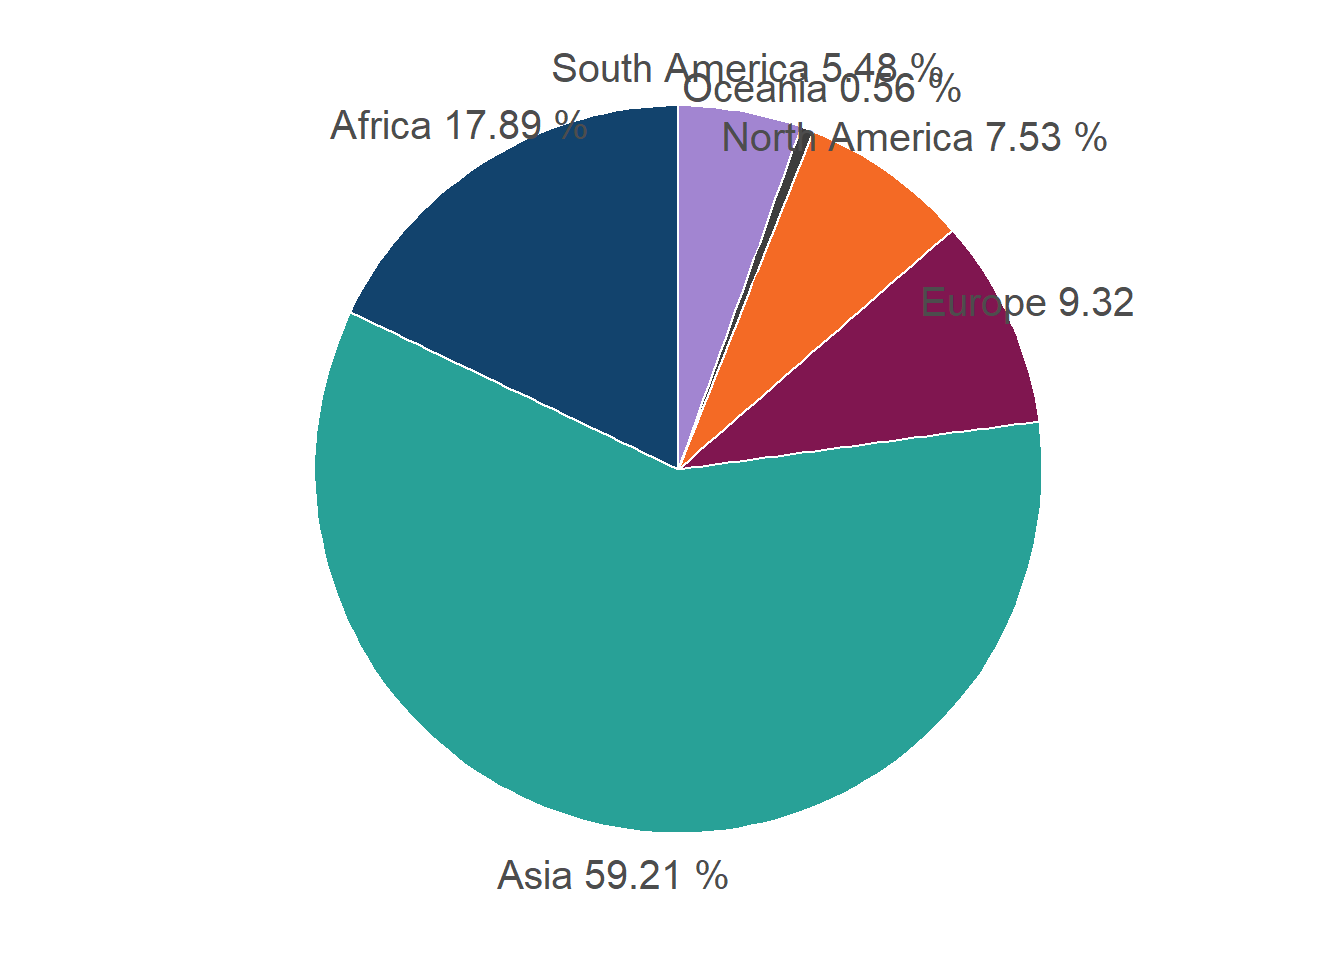
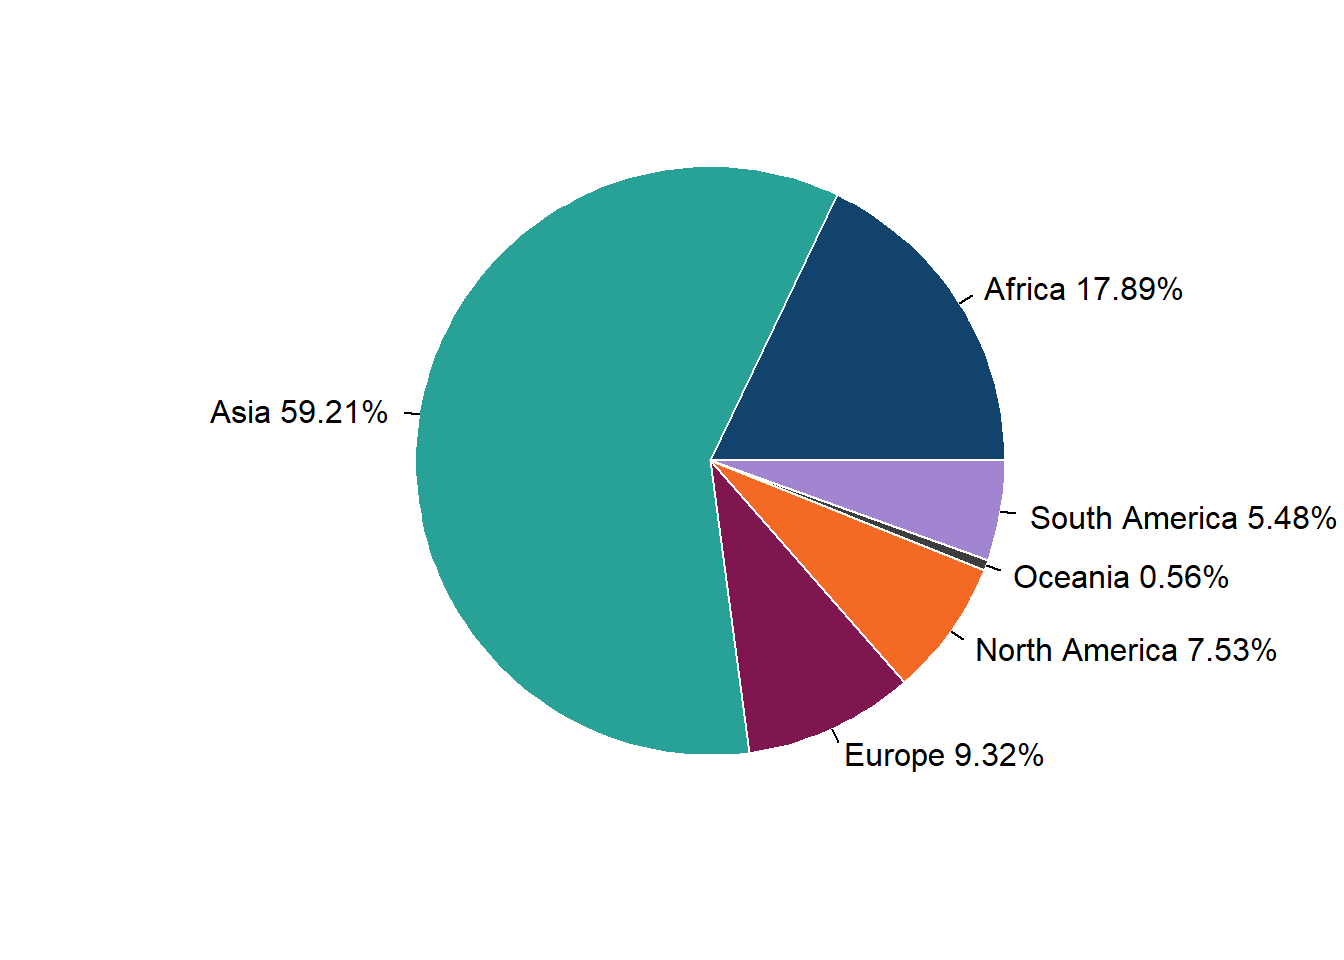
Change Figure 2 legend title and Figure 5 label size

Changed region(s): [[0.1562, 0.0312, 1.0, 0.9375]]

diff --git a/docs/index.html b/docs/index.html
@@ -119,15 +119,12 @@ table, th, td {
 <li><ol start="18" type="A">
 <li></li>
 </ol></li>
-<li>the <a href="https://github.com/best-practice-and-impact/afcolours">afcolours package</a>.</li>
+<li>The <a href="https://github.com/best-practice-and-impact/afcolours">afcolours package</a>.</li>
 </ol>
 </section>
 <section id="installing-afcolours" class="level2">
 <h2 class="anchored" data-anchor-id="installing-afcolours">Installing afcolours<a name="installingafcolours"></a></h2>
-<ol type="1">
-<li>Install the “devtools” package</li>
-<li>Run:</li>
-</ol>
+<p>This package is not currently on artifactory, so to install the latest version of afcolours directly from the github page, run:</p>
 <div class="cell">
 <div class="sourceCode" id="cb1"><pre class="sourceCode r cell-code code-with-copy"><code class="sourceCode r"><span id="cb1-1"><a href="#cb1-1" aria-hidden="true" tabindex="-1"></a>devtools<span class="sc">::</span><span class="fu">install_github</span>(<span class="st">"best-practice-and-impact/afcolours"</span>)</span></code><button title="Copy to Clipboard" class="code-copy-button"><i class="bi"></i></button></pre></div>
 <div class="cell-output-stderr">
@@ -135,7 +132,7 @@ table, th, td {
   Use `force = TRUE` to force installation</code></pre>
 </div>
 </div>
-<p>This process may change when afcolours goes live on artifactory.</p>
+<p>This requires you to have the “devtools” package installed first.</p>
 </section>
 <section id="how-to-obtain-colours" class="level2">
 <h2 class="anchored" data-anchor-id="how-to-obtain-colours">How to obtain colours<a name="howtoobtain"></a></h2>
@@ -145,22 +142,21 @@ table, th, td {
 </div>
 <p>The afcolours function takes three arguments: palette, colour_format, and n.</p>
 <ul>
-<li><p>palette is a required parameter, chosen by the user based on the <a href="https://analysisfunction.civilservice.gov.uk/policy-store/codes-for-accessible-colours/#section-5">Analysis Function colour guidance</a>. It takes one of four possible string values corresponding to the options:</p>
+<li>palette is an optional parameter, chosen by the user based on the <a href="https://analysisfunction.civilservice.gov.uk/policy-store/codes-for-accessible-colours/#section-5">Analysis Function colour guidance</a>. It takes one of four possible string values corresponding to the options:
 <ul>
+<li>“categorical” (default)</li>
 <li>“duo”<br>
 </li>
 <li>“focus”<br>
 </li>
-<li>“sequential”<br>
-</li>
-<li>“categorical”</li>
+<li>“sequential”</li>
 </ul></li>
-<li><p>colour_format is an optional parameter. It takes one of two possible string values:</p>
+<li>colour_format is an optional parameter. It takes one of two possible string values:
 <ul>
 <li>“hex” (default); meaning hexadecimal colour code, for example #12436D.</li>
 <li>“rgb”; meaning red green blue colour code, for example (18, 67, 109).</li>
 </ul></li>
-<li><p>n is an optional parameter for the categorical palette. It takes an integer value up to 6 and by default is equal to 6.</p></li>
+<li>n is an optional parameter for the categorical palette. It takes an integer value up to 6 (default n=6).</li>
 </ul>
 <p>afcolours returns hex codes as a vector, and rgb codes as a matrix.</p>
 </section>
@@ -355,9 +351,11 @@ Grey
 <span id="cb11-21"><a href="#cb11-21" aria-hidden="true" tabindex="-1"></a>                       <span class="at">size =</span> highlight)) <span class="sc">+</span></span>
 <span id="cb11-22"><a href="#cb11-22" aria-hidden="true" tabindex="-1"></a>  <span class="fu">geom_line</span>() <span class="sc">+</span></span>
 <span id="cb11-23"><a href="#cb11-23" aria-hidden="true" tabindex="-1"></a>  <span class="fu">labs</span>(<span class="at">x=</span><span class="st">"Year"</span>, <span class="at">y=</span><span class="st">"Population (Billion)"</span>) <span class="sc">+</span></span>
-<span id="cb11-24"><a href="#cb11-24" aria-hidden="true" tabindex="-1"></a>  <span class="fu">scale_colour_manual</span>(<span class="at">values=</span>af_focus_colours) <span class="sc">+</span></span>
-<span id="cb11-25"><a href="#cb11-25" aria-hidden="true" tabindex="-1"></a>  <span class="fu">scale_size_manual</span>(<span class="at">values=</span><span class="fu">c</span>(<span class="fl">1.1</span>, <span class="fl">0.2</span>)) <span class="sc">+</span></span>
-<span id="cb11-26"><a href="#cb11-26" aria-hidden="true" tabindex="-1"></a>  <span class="fu">theme_ipsum</span>()</span></code><button title="Copy to Clipboard" class="code-copy-button"><i class="bi"></i></button></pre></div>
+<span id="cb11-24"><a href="#cb11-24" aria-hidden="true" tabindex="-1"></a>  <span class="fu">scale_colour_manual</span>(<span class="at">values=</span>af_focus_colours,</span>
+<span id="cb11-25"><a href="#cb11-25" aria-hidden="true" tabindex="-1"></a>                      <span class="at">guide=</span><span class="st">"none"</span>) <span class="sc">+</span></span>
+<span id="cb11-26"><a href="#cb11-26" aria-hidden="true" tabindex="-1"></a>  <span class="fu">scale_size_manual</span>(<span class="at">values=</span><span class="fu">c</span>(<span class="fl">1.1</span>, <span class="fl">0.6</span>),</span>
+<span id="cb11-27"><a href="#cb11-27" aria-hidden="true" tabindex="-1"></a>                    <span class="at">name=</span><span class="st">"Country"</span>) <span class="sc">+</span></span>
+<span id="cb11-28"><a href="#cb11-28" aria-hidden="true" tabindex="-1"></a>  <span class="fu">theme_ipsum</span>()</span></code><button title="Copy to Clipboard" class="code-copy-button"><i class="bi"></i></button></pre></div>
 </div>
 <p><br></p>
 </section>
@@ -554,7 +552,7 @@ Light purple
 </tr>
 </tbody></table>
 <p><br></p>
-<p>The following charts use data based on the <a href="https://www.kaggle.com/datasets/iamsouravbanerjee/world-population-dataset?resource=download">world population dataset</a>. Data is available with the af_colours package.</p>
+<p>The following charts use data based on the <a href="https://www.kaggle.com/datasets/iamsouravbanerjee/world-population-dataset?resource=download">world population dataset</a>. Data is available with the afcolours package.</p>
 <section id="figure-4-bar-chart-using-the-categorical-colour-palette" class="level4">
 <h4 class="anchored" data-anchor-id="figure-4-bar-chart-using-the-categorical-colour-palette">Figure 4: Bar chart using the Categorical colour palette</h4>
 <div class="cell">
@@ -601,40 +599,24 @@ Light purple
 <div class="sourceCode" id="cb14"><pre class="sourceCode r cell-code code-with-copy"><code class="sourceCode r"><span id="cb14-1"><a href="#cb14-1" aria-hidden="true" tabindex="-1"></a><span class="co"># Load your packages</span></span>
 <span id="cb14-2"><a href="#cb14-2" aria-hidden="true" tabindex="-1"></a><span class="fu">library</span>(tidyverse)</span>
 <span id="cb14-3"><a href="#cb14-3" aria-hidden="true" tabindex="-1"></a><span class="fu">library</span>(ggplot2)</span>
-<span id="cb14-4"><a href="#cb14-4" aria-hidden="true" tabindex="-1"></a><span class="fu">library</span>(ggrepel)</span>
-<span id="cb14-5"><a href="#cb14-5" aria-hidden="true" tabindex="-1"></a></span>
-<span id="cb14-6"><a href="#cb14-6" aria-hidden="true" tabindex="-1"></a><span class="co"># Load in your colours</span></span>
-<span id="cb14-7"><a href="#cb14-7" aria-hidden="true" tabindex="-1"></a>af_categorical_colours <span class="ot">&lt;-</span> afcolours<span class="sc">::</span><span class="fu">af_colours</span>(<span class="st">"categorical"</span>, <span class="at">colour_format =</span> <span class="st">"hex"</span>, <span class="at">n =</span> <span class="dv">6</span>)</span>
-<span id="cb14-8"><a href="#cb14-8" aria-hidden="true" tabindex="-1"></a></span>
-<span id="cb14-9"><a href="#cb14-9" aria-hidden="true" tabindex="-1"></a><span class="co"># Load in your data</span></span>
-<span id="cb14-10"><a href="#cb14-10" aria-hidden="true" tabindex="-1"></a>world_population <span class="ot">&lt;-</span> <span class="fu">read_csv</span>(<span class="st">"data/world_population_continents.csv"</span>)</span>
-<span id="cb14-11"><a href="#cb14-11" aria-hidden="true" tabindex="-1"></a></span>
-<span id="cb14-12"><a href="#cb14-12" aria-hidden="true" tabindex="-1"></a>continents_population <span class="ot">&lt;-</span> world_population <span class="sc">%&gt;%</span></span>
-<span id="cb14-13"><a href="#cb14-13" aria-hidden="true" tabindex="-1"></a>  <span class="fu">select</span>(Continent, <span class="st">"2022"</span>) <span class="sc">%&gt;%</span></span>
-<span id="cb14-14"><a href="#cb14-14" aria-hidden="true" tabindex="-1"></a>  <span class="fu">group_by</span>(Continent) <span class="sc">%&gt;%</span></span>
-<span id="cb14-15"><a href="#cb14-15" aria-hidden="true" tabindex="-1"></a>  <span class="fu">summarise</span>(<span class="at">Population =</span> <span class="fu">sum</span>(.data<span class="sc">$</span><span class="st">"2022"</span>)) <span class="sc">%&gt;%</span></span>
-<span id="cb14-16"><a href="#cb14-16" aria-hidden="true" tabindex="-1"></a>  <span class="fu">mutate</span>(<span class="at">Label =</span> <span class="fu">paste</span>(Continent, </span>
-<span id="cb14-17"><a href="#cb14-17" aria-hidden="true" tabindex="-1"></a>                       <span class="fu">paste</span>(<span class="fu">round</span>(((Population<span class="sc">/</span><span class="fu">sum</span>(Population))<span class="sc">*</span><span class="dv">100</span>), <span class="dv">2</span>), <span class="st">"%"</span>), </span>
-<span id="cb14-18"><a href="#cb14-18" aria-hidden="true" tabindex="-1"></a>                       <span class="at">sep=</span><span class="st">" "</span>))</span>
-<span id="cb14-19"><a href="#cb14-19" aria-hidden="true" tabindex="-1"></a></span>
-<span id="cb14-20"><a href="#cb14-20" aria-hidden="true" tabindex="-1"></a><span class="co"># Get the positions of the labels</span></span>
-<span id="cb14-21"><a href="#cb14-21" aria-hidden="true" tabindex="-1"></a>continents_population_labels <span class="ot">&lt;-</span> continents_population <span class="sc">%&gt;%</span> </span>
-<span id="cb14-22"><a href="#cb14-22" aria-hidden="true" tabindex="-1"></a>  <span class="fu">mutate</span>(<span class="at">csum =</span> <span class="fu">rev</span>(<span class="fu">cumsum</span>(<span class="fu">rev</span>(Population))), </span>
-<span id="cb14-23"><a href="#cb14-23" aria-hidden="true" tabindex="-1"></a>         <span class="at">pos =</span> Population<span class="sc">/</span><span class="dv">2</span> <span class="sc">+</span> <span class="fu">lead</span>(csum, <span class="dv">1</span>),</span>
-<span id="cb14-24"><a href="#cb14-24" aria-hidden="true" tabindex="-1"></a>         <span class="at">pos =</span> <span class="fu">if_else</span>(<span class="fu">is.na</span>(pos), Population<span class="sc">/</span><span class="dv">2</span>, pos))</span>
-<span id="cb14-25"><a href="#cb14-25" aria-hidden="true" tabindex="-1"></a></span>
-<span id="cb14-26"><a href="#cb14-26" aria-hidden="true" tabindex="-1"></a><span class="co"># Create your chart</span></span>
-<span id="cb14-27"><a href="#cb14-27" aria-hidden="true" tabindex="-1"></a><span class="fu">ggplot</span>(continents_population, <span class="fu">aes</span>(<span class="at">x =</span> <span class="st">""</span>, <span class="at">y =</span> Population, <span class="at">fill =</span> Continent)) <span class="sc">+</span></span>
-<span id="cb14-28"><a href="#cb14-28" aria-hidden="true" tabindex="-1"></a>  <span class="fu">geom_col</span>(<span class="at">width=</span><span class="dv">1</span>, <span class="at">color=</span><span class="st">"white"</span>) <span class="sc">+</span></span>
-<span id="cb14-29"><a href="#cb14-29" aria-hidden="true" tabindex="-1"></a>  <span class="fu">coord_polar</span>(<span class="at">theta =</span> <span class="st">"y"</span>) <span class="sc">+</span></span>
-<span id="cb14-30"><a href="#cb14-30" aria-hidden="true" tabindex="-1"></a>  <span class="fu">scale_fill_manual</span>(<span class="at">values=</span>af_categorical_colours) <span class="sc">+</span></span>
-<span id="cb14-31"><a href="#cb14-31" aria-hidden="true" tabindex="-1"></a>  <span class="fu">scale_y_continuous</span>(<span class="at">breaks =</span> continents_population_labels<span class="sc">$</span>pos,</span>
-<span id="cb14-32"><a href="#cb14-32" aria-hidden="true" tabindex="-1"></a>                     <span class="at">labels =</span> continents_population<span class="sc">$</span>Label) <span class="sc">+</span></span>
-<span id="cb14-33"><a href="#cb14-33" aria-hidden="true" tabindex="-1"></a>  <span class="fu">theme</span>(<span class="at">axis.ticks =</span> <span class="fu">element_blank</span>(),</span>
-<span id="cb14-34"><a href="#cb14-34" aria-hidden="true" tabindex="-1"></a>        <span class="at">axis.title =</span> <span class="fu">element_blank</span>(),</span>
-<span id="cb14-35"><a href="#cb14-35" aria-hidden="true" tabindex="-1"></a>        <span class="at">axis.text =</span> <span class="fu">element_text</span>(<span class="at">size =</span> <span class="dv">15</span>), </span>
-<span id="cb14-36"><a href="#cb14-36" aria-hidden="true" tabindex="-1"></a>        <span class="at">legend.position =</span> <span class="st">"none"</span>, <span class="co"># Removes the legend</span></span>
-<span id="cb14-37"><a href="#cb14-37" aria-hidden="true" tabindex="-1"></a>        <span class="at">panel.background =</span> <span class="fu">element_rect</span>(<span class="at">fill =</span> <span class="st">"white"</span>))</span></code><button title="Copy to Clipboard" class="code-copy-button"><i class="bi"></i></button></pre></div>
+<span id="cb14-4"><a href="#cb14-4" aria-hidden="true" tabindex="-1"></a></span>
+<span id="cb14-5"><a href="#cb14-5" aria-hidden="true" tabindex="-1"></a><span class="co"># Load in your colours</span></span>
+<span id="cb14-6"><a href="#cb14-6" aria-hidden="true" tabindex="-1"></a>af_categorical_colours <span class="ot">&lt;-</span> afcolours<span class="sc">::</span><span class="fu">af_colours</span>(<span class="st">"categorical"</span>, <span class="at">colour_format =</span> <span class="st">"hex"</span>, <span class="at">n =</span> <span class="dv">6</span>)</span>
+<span id="cb14-7"><a href="#cb14-7" aria-hidden="true" tabindex="-1"></a></span>
+<span id="cb14-8"><a href="#cb14-8" aria-hidden="true" tabindex="-1"></a><span class="co"># Load in your data</span></span>
+<span id="cb14-9"><a href="#cb14-9" aria-hidden="true" tabindex="-1"></a>world_population <span class="ot">&lt;-</span> <span class="fu">read_csv</span>(<span class="st">"data/world_population_continents.csv"</span>)</span>
+<span id="cb14-10"><a href="#cb14-10" aria-hidden="true" tabindex="-1"></a></span>
+<span id="cb14-11"><a href="#cb14-11" aria-hidden="true" tabindex="-1"></a>continents_population <span class="ot">&lt;-</span> world_population <span class="sc">%&gt;%</span></span>
+<span id="cb14-12"><a href="#cb14-12" aria-hidden="true" tabindex="-1"></a>  <span class="fu">select</span>(Continent, <span class="st">"2022"</span>) <span class="sc">%&gt;%</span></span>
+<span id="cb14-13"><a href="#cb14-13" aria-hidden="true" tabindex="-1"></a>  <span class="fu">group_by</span>(Continent) <span class="sc">%&gt;%</span></span>
+<span id="cb14-14"><a href="#cb14-14" aria-hidden="true" tabindex="-1"></a>  <span class="fu">summarise</span>(<span class="at">Population =</span> <span class="fu">sum</span>(.data<span class="sc">$</span><span class="st">"2022"</span>)) <span class="sc">%&gt;%</span></span>
+<span id="cb14-15"><a href="#cb14-15" aria-hidden="true" tabindex="-1"></a>  <span class="fu">mutate</span>(<span class="at">Label =</span> <span class="fu">paste</span>(Continent, </span>
+<span id="cb14-16"><a href="#cb14-16" aria-hidden="true" tabindex="-1"></a>                       <span class="fu">paste0</span>(<span class="fu">round</span>(Population<span class="sc">/</span><span class="fu">sum</span>(Population)<span class="sc">*</span><span class="dv">100</span>, <span class="dv">2</span>), <span class="st">"%"</span>), </span>
+<span id="cb14-17"><a href="#cb14-17" aria-hidden="true" tabindex="-1"></a>                       <span class="at">sep=</span><span class="st">" "</span>))</span>
+<span id="cb14-18"><a href="#cb14-18" aria-hidden="true" tabindex="-1"></a></span>
+<span id="cb14-19"><a href="#cb14-19" aria-hidden="true" tabindex="-1"></a><span class="co"># Create your chart</span></span>
+<span id="cb14-20"><a href="#cb14-20" aria-hidden="true" tabindex="-1"></a><span class="fu">pie</span>(continents_population<span class="sc">$</span>Population, <span class="at">labels =</span> continents_population<span class="sc">$</span>Label, </span>
+<span id="cb14-21"><a href="#cb14-21" aria-hidden="true" tabindex="-1"></a>    <span class="at">border=</span><span class="st">"white"</span>, <span class="at">col=</span>af_categorical_colours, <span class="at">radius =</span> <span class="fl">1.05</span>)</span></code><button title="Copy to Clipboard" class="code-copy-button"><i class="bi"></i></button></pre></div>
 </div>
 <p><br></p>
 </section>
